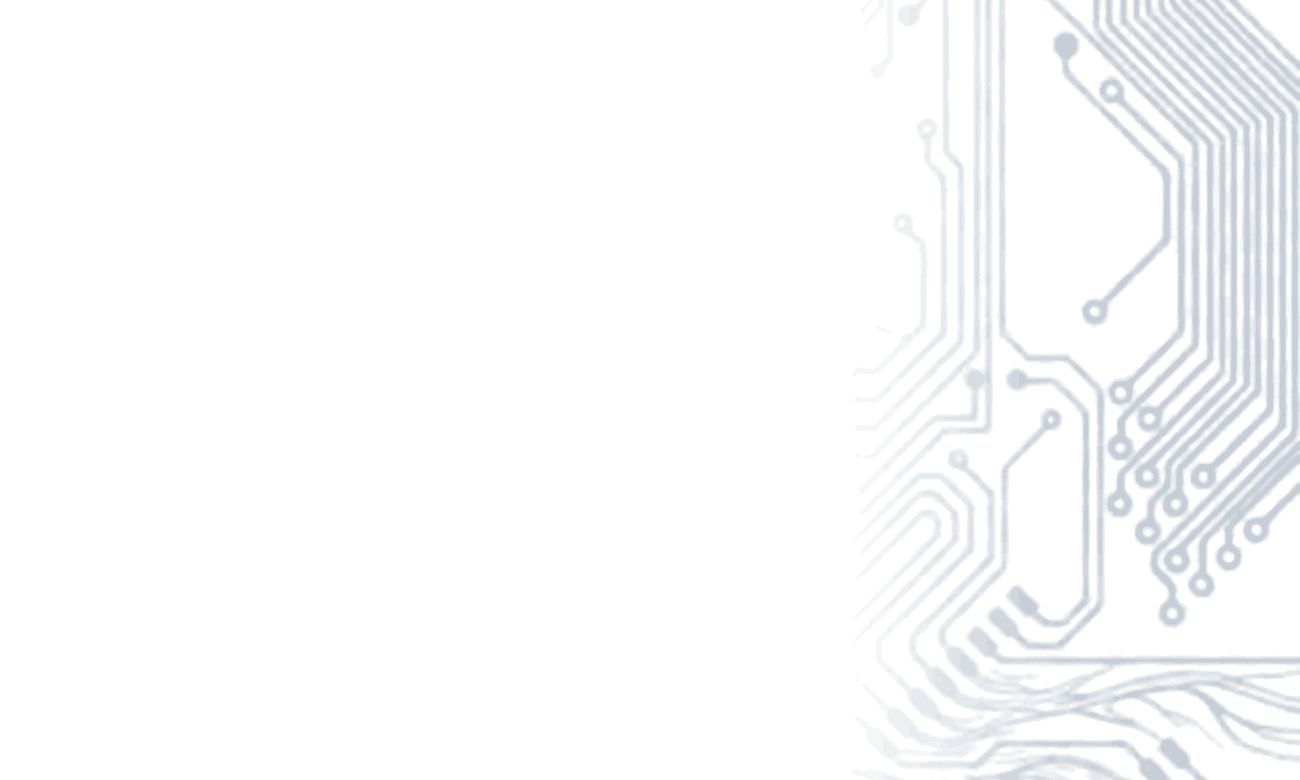
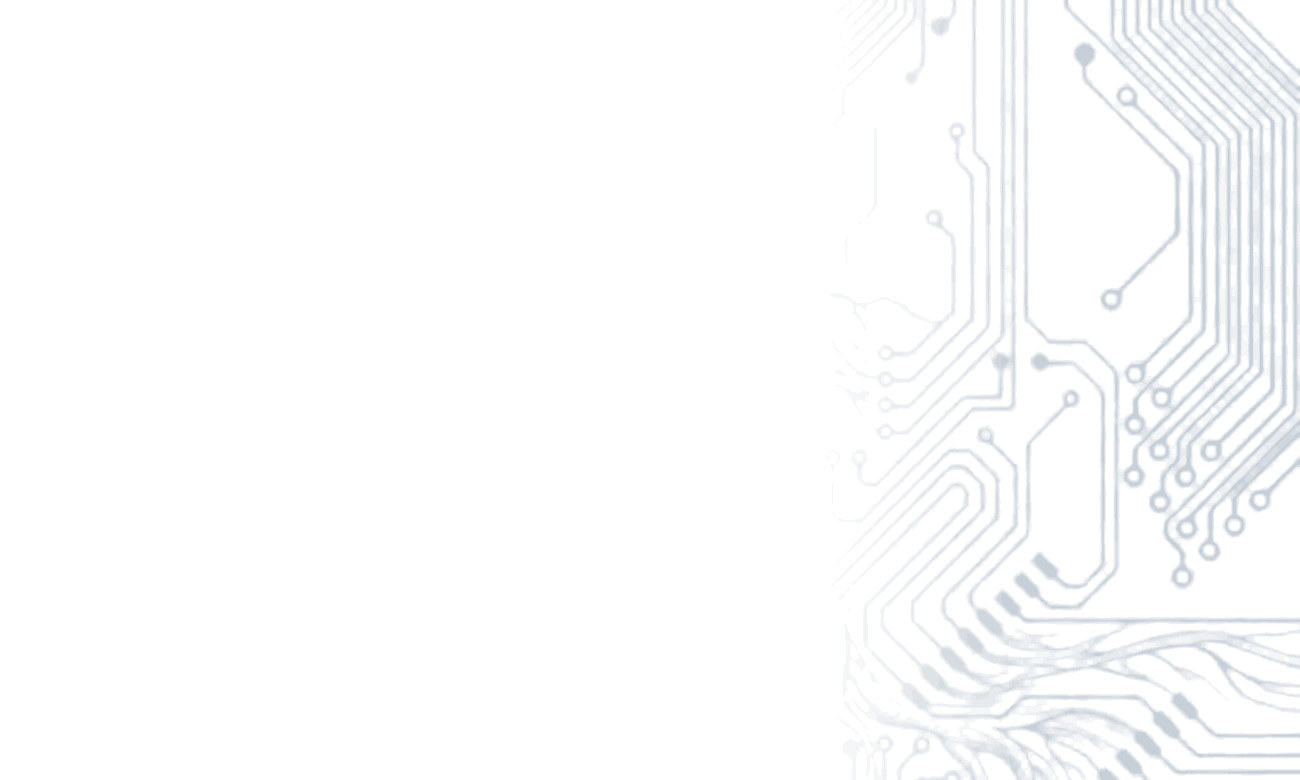
Innovation Ties: traço da arte mais fino, e o menu Innovation Ties passa a abrir a página
- as duas artes de circuito são refeitas com um recorte mais largo e uma erosão
  de um pixel no traço: linhas mais finas e delicadas, mesmo desenho
- o item Innovation Ties do menu, em todas as páginas do site, e o botão
  Explore Innovation Ties das quatro homes levam a /innovation-ties/

Claude-Session: https://claude.ai/code/session_01JDz63bo1eBAP8Zui6Un6fL

Changed region(s): [[0.7077, 0.0, 1.0, 1.0]]

diff --git a/destination-services/index.html b/destination-services/index.html
@@ -24,7 +24,7 @@
     <a class="header-logo" href="../"><img src="../img/live-and-learn-brazil-horizontal-light.svg" alt="Live &amp; Learn Brazil"></a>
     <nav class="menu" aria-label="Services">
       <a href="../intercultural-due-diligence/">Intercultural Due Diligence</a>
-      <a href="../#innovation">Innovation Ties</a>
+      <a href="../innovation-ties/">Innovation Ties</a>
       <a href="../#portuguese">Business Portuguese</a>
       <a href="./" aria-current="page">Destination Services</a>
     </nav>

diff --git a/sao-paulo-real-estate/index.html b/sao-paulo-real-estate/index.html
@@ -18,7 +18,7 @@
     <a class="header-logo" href="../"><img src="../img/live-and-learn-brazil-horizontal-light.svg" alt="Live &amp; Learn Brazil"></a>
     <nav class="menu" aria-label="Services">
       <a href="../intercultural-due-diligence/">Intercultural Due Diligence</a>
-      <a href="../#innovation">Innovation Ties</a>
+      <a href="../innovation-ties/">Innovation Ties</a>
       <a href="../#portuguese">Business Portuguese</a>
       <a href="../#destination">Destination Services</a>
     </nav>

diff --git a/zh/index.html b/zh/index.html
@@ -41,7 +41,7 @@
     <a class="header-logo" href="#"><img src="../img/live-and-learn-brazil-horizontal-light.svg" alt="Live &amp; Learn Brazil 标志"></a>
     <nav class="menu" aria-label="服务">
       <a href="../intercultural-due-diligence/">跨文化尽职调查</a>
-      <a href="#innovation">巴中创新合作</a>
+      <a href="../innovation-ties/">巴中创新合作</a>
       <a href="#portuguese">企业葡萄牙语培训</a>
       <a href="#destination">巴西落地服务</a>
     </nav>

diff --git a/intercultural-due-diligence/index.html b/intercultural-due-diligence/index.html
@@ -18,7 +18,7 @@
     <a class="header-logo" href="../"><img src="../img/live-and-learn-brazil-horizontal-light.svg" alt="Live &amp; Learn Brazil"></a>
     <nav class="menu" aria-label="Services">
       <a href="./" aria-current="page">Intercultural Due Diligence</a>
-      <a href="../#innovation">Innovation Ties</a>
+      <a href="../innovation-ties/">Innovation Ties</a>
       <a href="../#portuguese">Business Portuguese</a>
       <a href="../#destination">Destination Services</a>
     </nav>

diff --git a/it/index.html b/it/index.html
@@ -22,7 +22,7 @@
     <a class="header-logo" href="#"><img src="../img/live-and-learn-brazil-horizontal-light.svg" alt="Live &amp; Learn Brazil"></a>
     <nav class="menu" aria-label="Services">
       <a href="../intercultural-due-diligence/">Intercultural Due Diligence</a>
-      <a href="#innovation">Innovation Ties</a>
+      <a href="../innovation-ties/">Innovation Ties</a>
       <a href="#portuguese">Business Portuguese</a>
       <a href="#destination">Destination Services</a>
     </nav>

diff --git a/pt/index.html b/pt/index.html
@@ -22,7 +22,7 @@
     <a class="header-logo" href="#"><img src="../img/live-and-learn-brazil-horizontal-light.svg" alt="Live &amp; Learn Brazil"></a>
     <nav class="menu" aria-label="Services">
       <a href="../intercultural-due-diligence/">Intercultural Due Diligence</a>
-      <a href="#innovation">Innovation Ties</a>
+      <a href="../innovation-ties/">Innovation Ties</a>
       <a href="#portuguese">Business Portuguese</a>
       <a href="#destination">Destination Services</a>
     </nav>

diff --git a/diagnostic-confirmed/index.html b/diagnostic-confirmed/index.html
@@ -17,7 +17,7 @@
     <a class="header-logo" href="../"><img src="../img/live-and-learn-brazil-horizontal-light.svg" alt="Live &amp; Learn Brazil"></a>
     <nav class="menu" aria-label="Services">
       <a href="../#due-diligence">Intercultural Due Diligence</a>
-      <a href="../#innovation">Innovation Ties</a>
+      <a href="../innovation-ties/">Innovation Ties</a>
       <a href="../#portuguese">Business Portuguese</a>
       <a href="../#destination">Destination Services</a>
     </nav>

diff --git a/session-confirmed/index.html b/session-confirmed/index.html
@@ -17,7 +17,7 @@
     <a class="header-logo" href="../"><img src="../img/live-and-learn-brazil-horizontal-light.svg" alt="Live &amp; Learn Brazil"></a>
     <nav class="menu" aria-label="Services">
       <a href="../#due-diligence">Intercultural Due Diligence</a>
-      <a href="../#innovation">Innovation Ties</a>
+      <a href="../innovation-ties/">Innovation Ties</a>
       <a href="../#portuguese">Business Portuguese</a>
       <a href="../#destination">Destination Services</a>
     </nav>

diff --git a/index.html b/index.html
@@ -22,7 +22,7 @@
     <a class="header-logo" href="#"><img src="img/live-and-learn-brazil-horizontal-light.svg" alt="Live &amp; Learn Brazil"></a>
     <nav class="menu" aria-label="Services">
       <a href="intercultural-due-diligence/">Intercultural Due Diligence</a>
-      <a href="#innovation">Innovation Ties</a>
+      <a href="innovation-ties/">Innovation Ties</a>
       <a href="#portuguese">Business Portuguese</a>
       <a href="#destination">Destination Services</a>
     </nav>

diff --git a/contact/index.php b/contact/index.php
@@ -63,7 +63,7 @@ function e(string $s): string { return htmlspecialchars($s, ENT_QUOTES, 'UTF-8')
     <a class="header-logo" href="<?= e($home) ?>"><img src="../img/live-and-learn-brazil-horizontal-light.svg" alt="Live &amp; Learn Brazil"></a>
     <nav class="menu" aria-label="<?= e($t['menu_aria']) ?>">
       <a href="../intercultural-due-diligence/"><?= e($t['menu'][0]) ?></a>
-      <a href="<?= e($home) ?>#innovation"><?= e($t['menu'][1]) ?></a>
+      <a href="../innovation-ties/"><?= e($t['menu'][1]) ?></a>
       <a href="<?= e($home) ?>#portuguese"><?= e($t['menu'][2]) ?></a>
       <a href="<?= e($home) ?>#destination"><?= e($t['menu'][3]) ?></a>
     </nav>

diff --git a/full-advisory/index.php b/full-advisory/index.php
@@ -29,7 +29,7 @@ $estado = (($_GET['sent'] ?? '') === '1') ? 'enviado' : ((($_GET['error'] ?? '')
     <a class="header-logo" href="../"><img src="../img/live-and-learn-brazil-horizontal-light.svg" alt="Live &amp; Learn Brazil"></a>
     <nav class="menu" aria-label="Services">
       <a href="../intercultural-due-diligence/">Intercultural Due Diligence</a>
-      <a href="../#innovation">Innovation Ties</a>
+      <a href="../innovation-ties/">Innovation Ties</a>
       <a href="../#portuguese">Business Portuguese</a>
       <a href="../#destination">Destination Services</a>
     </nav>
